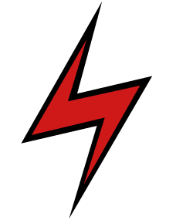
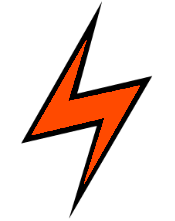
color palet and fixes #6

Changed region(s): [[0.1714, 0.19, 0.8, 0.8145]]

diff --git a/src/App.vue b/src/App.vue
@@ -1,7 +1,7 @@
 <template>
   <div id="app" class="fullsize">
     <ShowHideDigitalTypeLabel
-      :color="hacked ? `red` : `green`"
+      :color="hacked ? lightningRed : lightningGreen"
       :type="pumps[0]"
       top="18vw"
       left="32vw"
@@ -11,7 +11,7 @@
     ></ShowHideDigitalTypeLabel>
     <!--gs1id="urn:epc:id:giai:0614141.12345401"-->
     <ShowHideDigitalTypeLabel
-      :color="hacked ? `red` : `green`"
+      :color="hacked ? lightningRed : lightningGreen"
       :type="pumps[1]"
       top="18vw"
       left="54vw"
@@ -25,19 +25,9 @@
       right="1vw"
       top="1vh"
       width="35vw"
-      :color="powerBalance < 0 ? `red` : `green`"
+      :color="powerBalance < 0 ? lightningRed : lightningGreen"
       style="z-index:1;font-weight: bold;"
-    >
-      Total Capacity {{ powerBalance }} kW
-      <br />
-      <button
-        type="button"
-        class="btn btn-info btn-lg"
-        @click="()=>{this.showStore=true;}"
-        v-if="powerBalance<0 && !showNoCertText"
-        style="background-color:blue;border-color:blue;"
-      >Rent Generators</button>
-    </TextBox>
+    >Total Capacity {{ powerBalance }} kW</TextBox>
 
     <!-- Balance/Load Indicator -->
     <TextBox
@@ -45,13 +35,23 @@
       right="1vw"
       top="1vh"
       width="35vw"
-      :color="totalLoad === 0 ? `green` : `red`"
+      :color="totalLoad === 0 ? lightningGreen : lightningRed"
       style="z-index:1;font-weight: bold;"
     >
       Power Balance: {{ Math.round(totalLoad) }} kW
       <br />
     </TextBox>
 
+    <!-- Shop Button -->
+    <button
+      type="button"
+      class="btn btn-info btn-lg"
+      @click="()=>{this.showStore=true;}"
+      v-if="powerBalance<0 && !showNoCertText"
+      :style="`width:35vw; right:1vw; top:7vw;z-index:2; position:absolute;background-color:${this.lighningBlue};border-color:${this.lighningBlue};`"
+    >Rent Generators</button>
+
+    
     <!-- Lighning icon -->
     <div style="position: absolute; left: 50vw; top: 5vw; z-index:1;">
       <img
@@ -68,7 +68,7 @@
       left="1vw"
       top="1vw"
       width="35vw"
-      color="green"
+      :color="lightningGreen"
       style="z-index:1;"
       show="true"
     >You are mining resources in a remote area without electricity. You need to setup a micro grid to power your machines.</ShowHideTextBox>
@@ -95,7 +95,7 @@
         <DigitalTypeLabel
           :style="`z-index:${20-index}; position:relative;`"
           :type="generator"
-          color="green"
+          :color="lightningGreen"
           width="190px"
           height="210px"
           :certified="certified"
@@ -121,15 +121,24 @@
         type="button"
         class="btn btn-info btn-lg"
         @click="rent"
-        :disabled="powerBalance<0"
-        style="background-color:blue;border-color:blue;"
+        :style="`background-color:${this.lighningBlue};border-color:${this.lighningBlue};`"
       >Rent Generators</button>
+      <button
+      type="button"
+      class="close"
+      aria-label="Close"
+      style="position:absolute;right:1vw;top:0.5vw;"
+      @click="rent"
+    >
+      <span aria-hidden="true">&times;</span>
+    </button>
+
       <ShowHideTextBox
         v-if="certified"
         left="1vw"
         top="1vw"
         width="35vw"
-        color="green"
+        :color="lightningGreen"
         style="z-index:21;"
         show="true"
       >Authenticity of the digital type label is guaranteed by a signature of the manufacturer. The manufactruer's identity is authenticated by GS1.</ShowHideTextBox>
@@ -159,7 +168,7 @@
 
         <ShowHideDigitalTypeLabel
           :type="generator"
-          :color="generator.smoking ? `red` : `green`"
+          :color="generator.smoking ? lightningRed : lightningGreen"
           width="190px"
           height="210px"
           style="position:absolute; top:calc(-10px - 6vw); left:2vw;"
@@ -176,7 +185,7 @@
       left="1vw"
       top="1vw"
       width="35vw"
-      color="green"
+      :color="lightningGreen"
       style="z-index:1;"
       show="true"
     >You have rented a few generators according to the digital type label provided by the retailer. Everything seems to be running smoothly.</ShowHideTextBox>
@@ -186,7 +195,7 @@
       v-if="showNoCertText&& !overheated"
       :counter="100 - 10 * timer"
       style="width:35vw; right:1vw; top:7vw;z-index:2; position:absolute;"
-      color="red"
+      :color="lightningRed"
       v-on:click="overheat"
     >Are the generators working as expected?</progress-bar-to-button>
 
@@ -196,7 +205,7 @@
       left="1vw"
       top="1vw"
       width="35vw"
-      color="red"
+      :color="lightningRed"
       style="z-index:1;"
       show="true"
     >
@@ -225,7 +234,7 @@
       left="1vw"
       top="1vw"
       width="35vw"
-      color="green"
+      :color="lightningGreen"
       style="z-index:2;"
     >
       Problem: How can the user know that data is authentic?
@@ -240,7 +249,7 @@
       left="1vw"
       top="1vw"
       width="35vw"
-      color="green"
+      :color="lightningGreen"
       style="z-index:1;"
       show="true"
     >
@@ -265,7 +274,7 @@
       left="1vw"
       top="1vw"
       width="35vw"
-      color="green"
+      :color="lightningGreen"
       style="z-index:1;"
     >Dynamic data is used to regulate the grid, concretely to optimize the generator efficiency and hence minimise fuel consumption.</ShowHideTextBox>
 
@@ -278,7 +287,14 @@
     >Hack Data!</progress-bar-to-button>
 
     <!-- explain 7 -->
-    <ShowHideTextBox v-if="hacked" left="1vw" top="1vw" width="35vw" color="red" style="z-index:1;">
+    <ShowHideTextBox
+      v-if="hacked"
+      left="1vw"
+      top="1vw"
+      width="35vw"
+      :color="lightningRed"
+      style="z-index:1;"
+    >
       The status information received from the pumps has been hacked to show 0 load.
       All generators have been switched off and your operations grind to a hold.
     </ShowHideTextBox>
@@ -301,7 +317,7 @@
       left="1vw"
       top="1vw"
       width="35vw"
-      color="green"
+      :color="lightningGreen"
       style="z-index:1;"
     >
       Problem: Is the machine "who" it claims to be? Is the data from the machine authentic?
@@ -426,6 +442,9 @@ export default {
       totalLoad: 0,
       triggerTypelabel: false,
       showCredits: false,
+      lightningRed: "#ff4a00",
+      lightningGreen: "#20cf15",
+      lighningBlue: "#3a4ed4",
 
       pumps: [
         {
@@ -507,6 +526,8 @@ export default {
   },
   mounted: function () {
     this.resetPumpsAndGenerators();
+    this.timerInterval = setInterval(this.tick, 250);
+    this.randomDataInterval = setInterval(this.randomData, 500);
   },
   beforeDestroy() {
     if (this.timerInterval) {
@@ -543,18 +564,15 @@ export default {
     },
     rent: function () {
       console.log("Renting");
+      this.showStore = false;
       if (this.powerBalance < 0) {
         return;
       }
 
       this.showInitText = false;
-      this.showStore = false;
       this.timer = 10;
       if (!this.certified) {
         this.showNoCertText = true;
-      }
-      if (!this.timerInterval) {
-        this.timerInterval = setInterval(this.tick, 250);
       }
     },
     resetPumpsAndGenerators() {
@@ -582,10 +600,11 @@ export default {
       this.timer = 10;
       this.triggerTypelabel = false;
       this.triggerTypelabel = true;
-
-      this.randomDataInterval = setInterval(this.randomData, 500);
     },
     randomData: function () {
+      if (!this.dynamic) {
+        return;
+      }
       this.totalLoad = 0;
       var apparentLoad = 0;
       for (var pump of this.pumps) {
